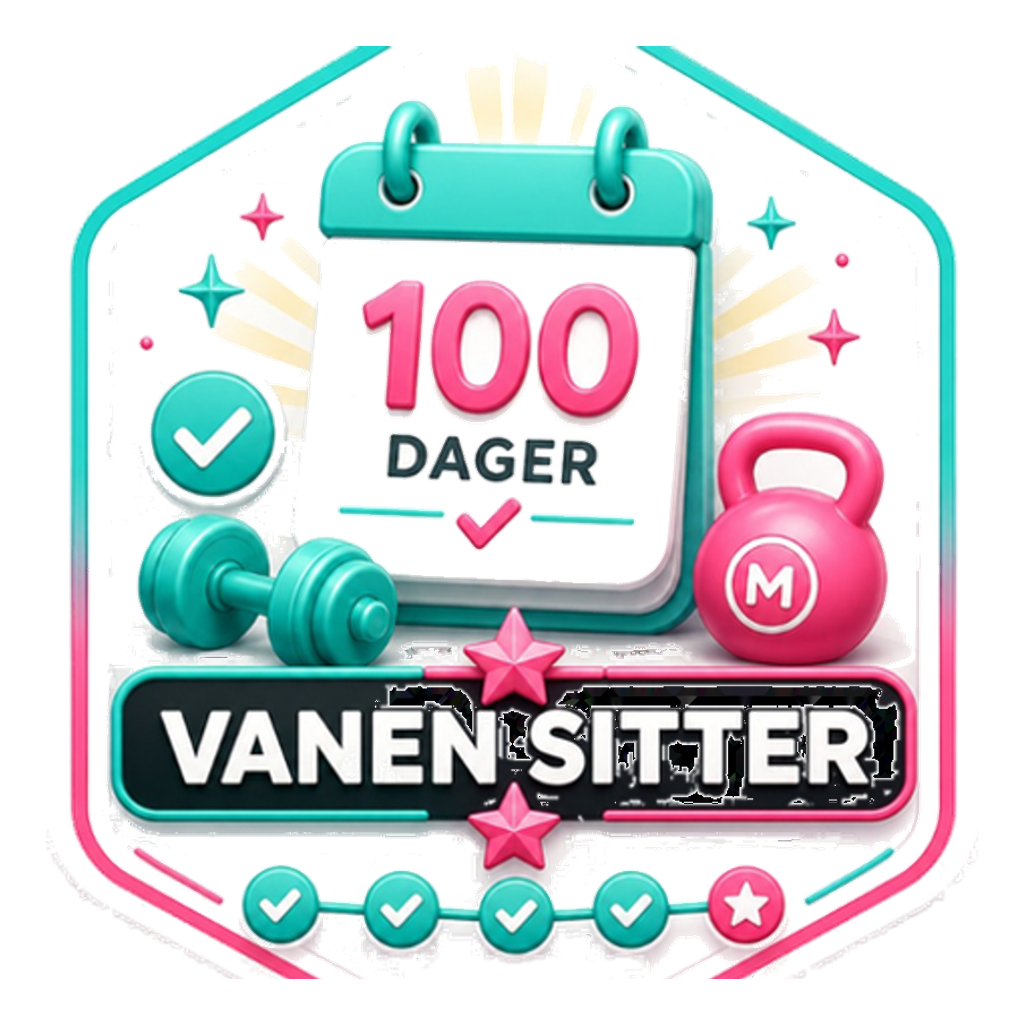
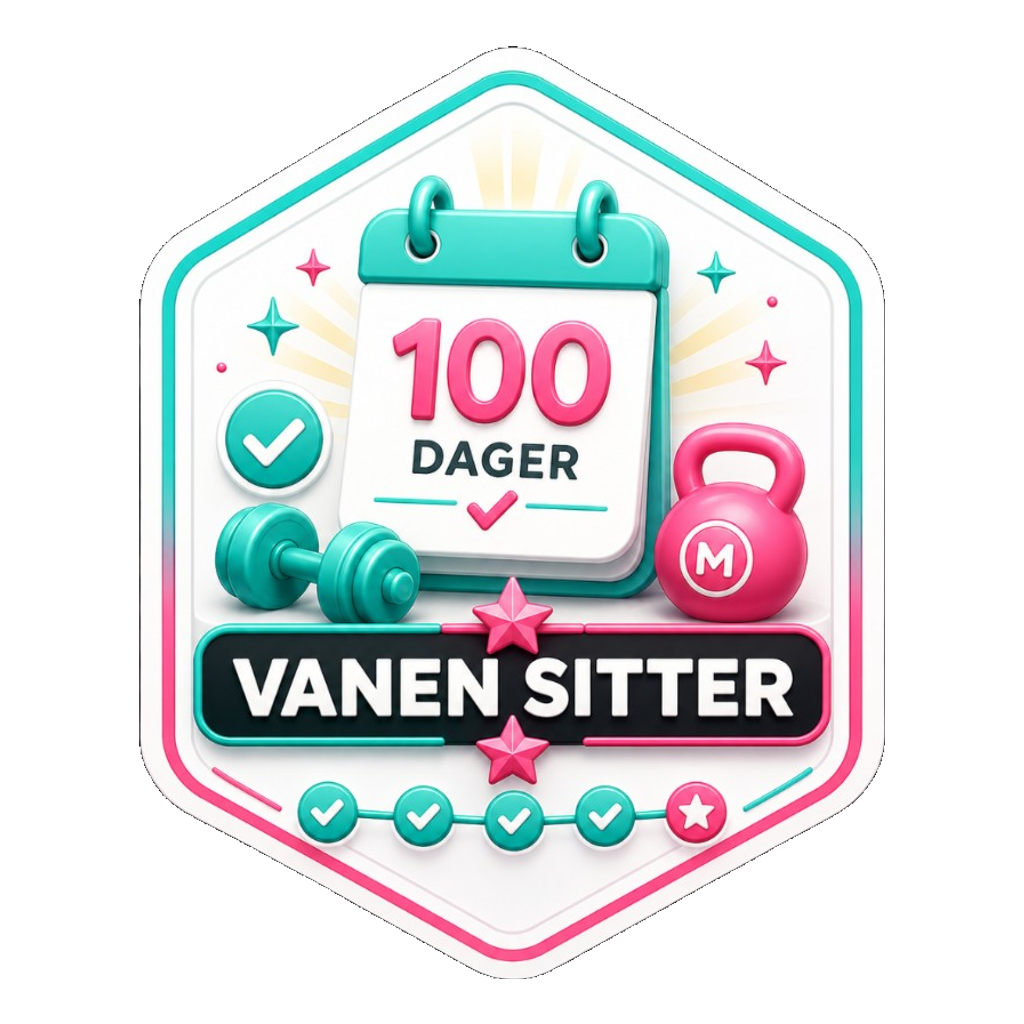
Update Vanen sitter badge artwork
Replace 42-vanen-sitter.png with new 100-dager calendar design and bump cache version.

diff --git a/src/app/badgeAssets.ts b/src/app/badgeAssets.ts
@@ -1,5 +1,5 @@
 /** Felles badge-bilder (PNG 1024×1024, normalisert visuell størrelse). */
-export const BADGE_ASSET_VERSION = "36";
+export const BADGE_ASSET_VERSION = "37";
 
 export function badgeAssetUrl(path: string): string {
   const base = path.split("?")[0] || path;
